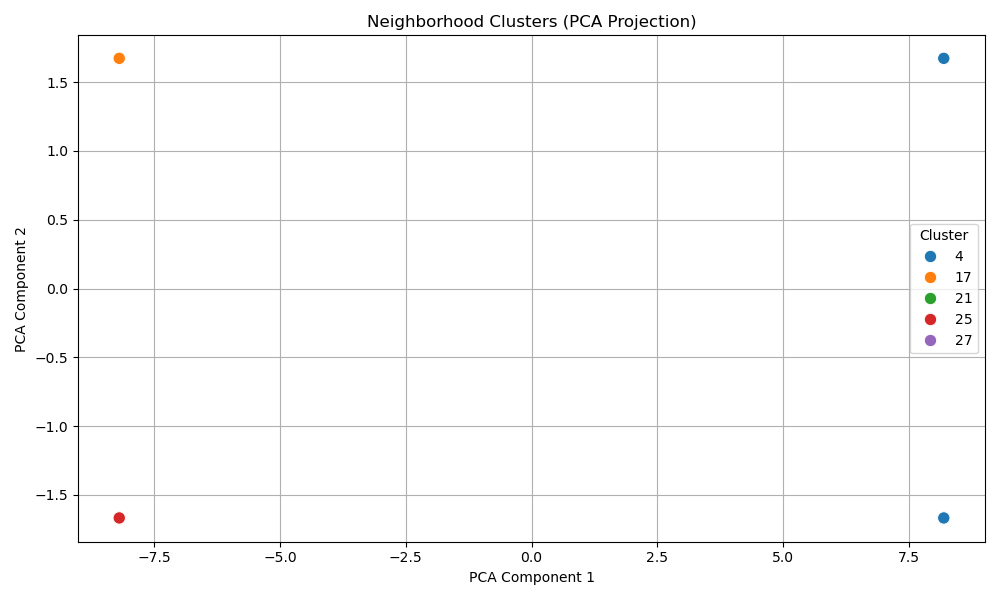
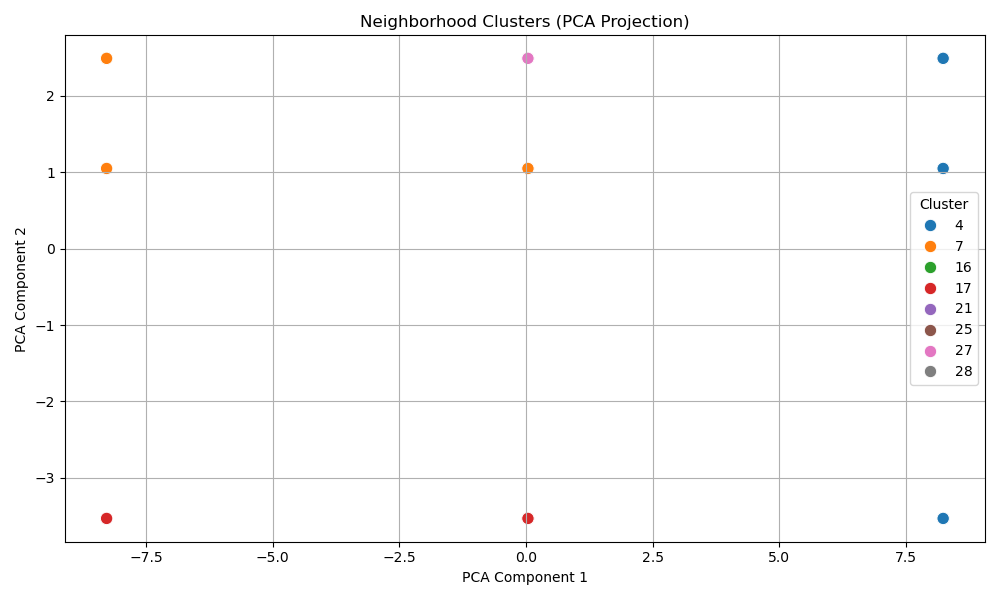
change bounds logic

diff --git a/models/idea_one_model.py b/models/idea_one_model.py
@@ -171,11 +171,11 @@ crime_rate_bounds = {
     5: (0, 0.02) # very high
 }
 affordability_bounds = {
-    1: (1079, 1128),   # very low
-    2: (1129, 1316), # low
+    1: (1410, 1430),   # very low
+    2: (1365, 1409), # low
     3: (1317, 1364), # medium
-    4: (1365, 1409), # high
-    5: (1410, 1430) # very high
+    4: (1129, 1316), # high
+    5: (1079, 1128) # very high
 }
 
 transit_bounds = {
@@ -228,6 +228,27 @@ column_map = {
     'uofa': 'Distance to U of A (km)'
 }
 
+#%%
+def get_bounds(column_name, user_rating):
+    col = column_map[column_name]
+    rating = user_rating
+
+
+
+    # collect lower bounds from this rating and higher ones
+    lower_vals = [bounds_dict[column_name][r][0] for r in bounds_dict[column_name] if r >= rating]
+    min_val = min(lower_vals)
+
+    # max should be the upper bound of the selected rating only
+    max_val = bounds_dict[column_name][rating][1]
+
+    # median of current category's range
+    curr_range = bounds_dict[column_name][rating]
+    #med_val = (curr_range[0] + curr_range[1]) / 2
+
+    return [min_val,  max_val]
+
+
  #%%
 
 # filter the dataframe based on user input
@@ -245,16 +266,15 @@ filtered_df = filtered_df.drop(columns=['NeighbourhoodNumber', 'CenterLocation',
 
 
 
-bound_affordability = list(bounds_dict['affordability'][user_input['affordability']])
-bound_affordability2019 = [filtered_df[filtered_df['rent2023'] >= bound_affordability[0]]['rent2019'].max(), filtered_df[filtered_df['rent2023'] >= bound_affordability[1]]['rent2019'].max()]
-bound_affordability2020 = [filtered_df[filtered_df['rent2023'] >= bound_affordability[0]]['rent2020'].max(), filtered_df[filtered_df['rent2023'] >= bound_affordability[1]]['rent2020'].max()]
-bound_affordability2021 = [filtered_df[filtered_df['rent2023'] >= bound_affordability[0]]['rent2019'].max(), filtered_df[filtered_df['rent2023'] >= bound_affordability[1]]['rent2021'].max()]
-bound_affordability2022 = [filtered_df[filtered_df['rent2023'] >= bound_affordability[0]]['rent2022'].max(), filtered_df[filtered_df['rent2023'] >= bound_affordability[1]]['rent2022'].max()]
-bound_crime_occurances = list(bounds_dict['crimerate'][user_input['crimerate']])
-bound_transit_scores = list(bounds_dict['transitscore'][user_input['transitscore']])
-bound_walk_scores = list(bounds_dict['walkscore'][user_input['walkscore']])
-bound_bike_scores = list(bounds_dict['bikescore'][user_input['bikescore']])
-bound_uofa = list(bounds_dict['uofa'][user_input['uofa']])
+bound_affordability = get_bounds('affordability', user_input['affordability'])
+print(bound_affordability)
+bound_crime_occurances = get_bounds('crimerate', user_input['crimerate'])
+print(bound_crime_occurances)
+bound_transit_scores = get_bounds('transitscore', user_input['transitscore'])
+bound_walk_scores = get_bounds('walkscore', user_input['walkscore'])
+bound_bike_scores = get_bounds('bikescore', user_input['bikescore'])
+bound_uofa = get_bounds('uofa', user_input['uofa'])
+
 
 #%%
 # make a "hypothetical" dataframe with the combinations of the bounds lists
@@ -263,12 +283,25 @@ bound_uofa = list(bounds_dict['uofa'][user_input['uofa']])
 # group the historical values
 
 
-historical_affordability_bounds = list(zip(
-    bound_affordability2019,
-    bound_affordability2020,
-    bound_affordability2021,
-    bound_affordability2022
-))
+# historical_affordability_bounds = list(zip(
+#     bound_affordability2019,
+#     bound_affordability2020,
+#     bound_affordability2021,
+#     bound_affordability2022
+# ))
+
+historical_affordability_bounds = []
+
+for val in bound_affordability:
+    rent_subset = filtered_df[filtered_df['rent2023'] >= val]
+    if not rent_subset.empty:
+        historical_affordability_bounds.append((
+            rent_subset['rent2019'].max(),
+            rent_subset['rent2020'].max(),
+            rent_subset['rent2021'].max(),
+            rent_subset['rent2022'].max()
+        ))
+
 
 # Other bounds stay the same
 combo_lists = [
@@ -378,9 +411,9 @@ print(f'Mean Absolute Error: {mae:.4f}')
 y_pred_using_combo = model.predict(combo_df)
 
 
-# print the columns and the predictions
-for i in range(len(y_pred_using_combo)):
-    print(f"hypothetical neighborhood {i+1}: {combo_df.iloc[i].to_dict()} -> rent estimate{y_pred_using_combo[i]:.2f}")
+# # print the columns and the predictions
+# for i in range(len(y_pred_using_combo)):
+#     print(f"hypothetical neighborhood {i+1}: {combo_df.iloc[i].to_dict()} -> rent estimate{y_pred_using_combo[i]:.2f}")
 
 # %%
 # store the hypothetical neighborhoods with rent estimates in a new dataframe
